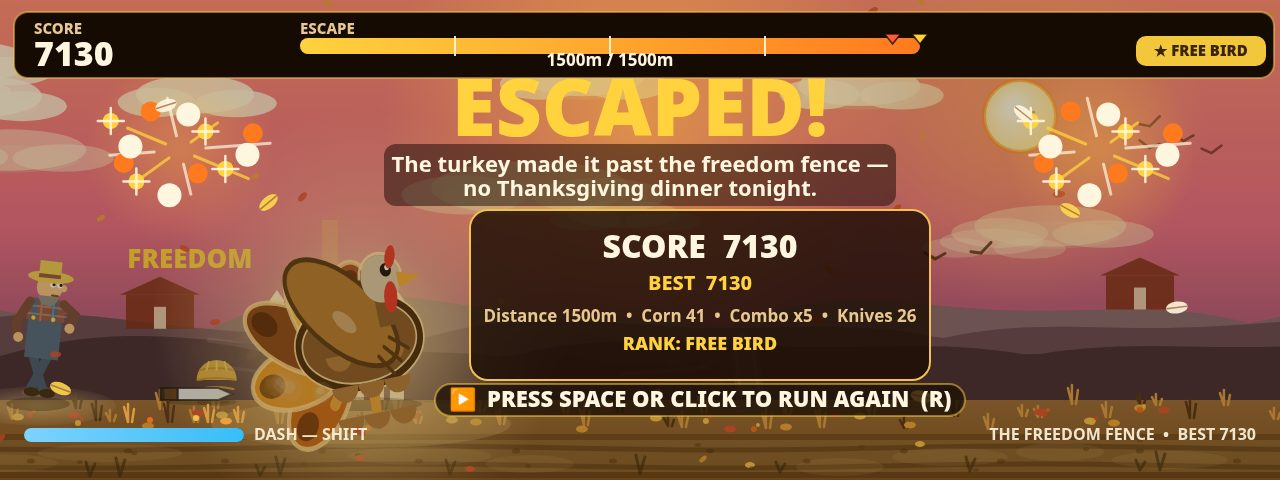
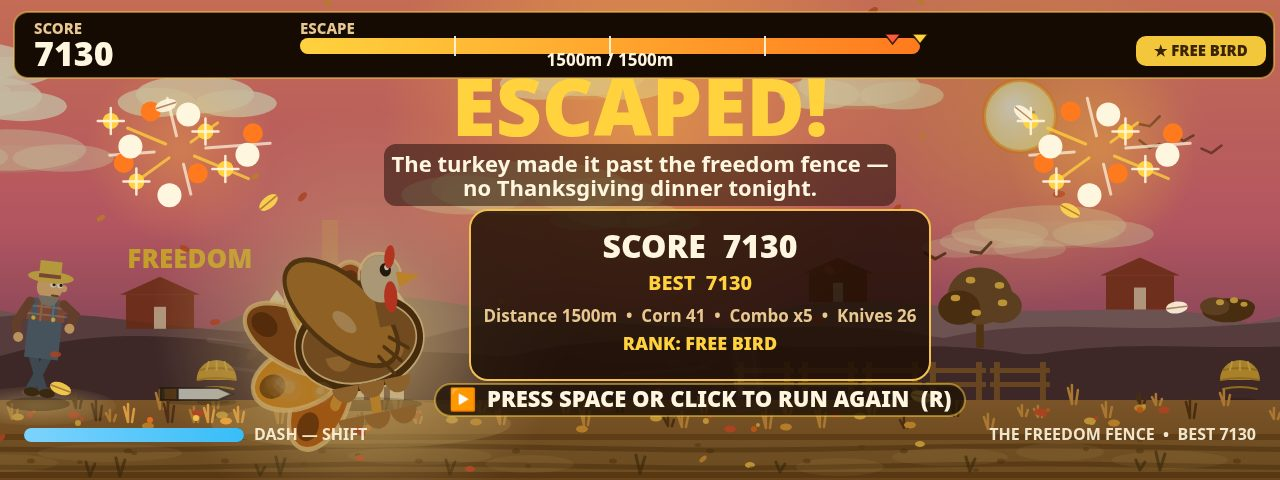
R3 round 11: end-frame right hill band dressing (oak, barn, fence, hay bale) via play dressing gate

diff --git a/game/src/render.js b/game/src/render.js
@@ -412,10 +412,10 @@ export function createRenderer(canvas) {
       ellipse(shx + 6, sby - 18, 4, 3, stage.leaf);
       ellipse(shx + 16, sby - 14, 3.5, 2.5, stage.leaf);
     }
-    // Right-band midground dressing (play only): a second barn, oak,
+    // Right-band midground dressing (play+end): a second barn, oak,
     // shrub, fence and bale ride the ridge maths, drawn only at x 700..1280
     // so the turkey/knife/OVEN! label (all left of x=520) are never covered.
-    if (screen === SCREEN_PLAY) {
+    if (screen === SCREEN_PLAY || screen === SCREEN_OVER) {
       const inBand = (x) => x >= 700 && x <= 1280;
       // Second barn on the far ridge, a little smaller than the pair.
       const b2x = ((678 - scroll * 0.12) % (FIELD.width + 420) + FIELD.width + 420) % (FIELD.width + 420) - 360;
